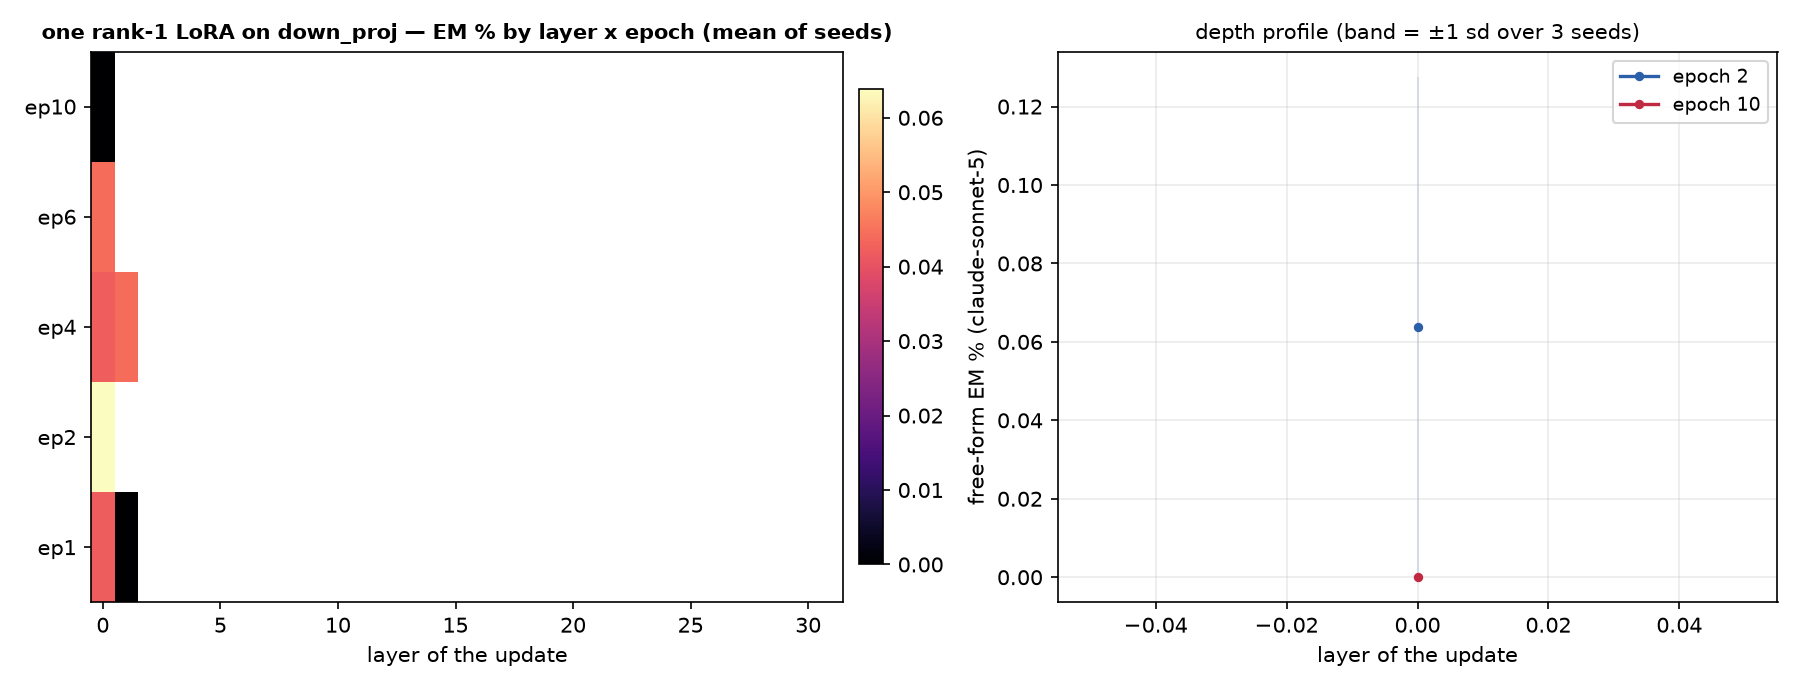
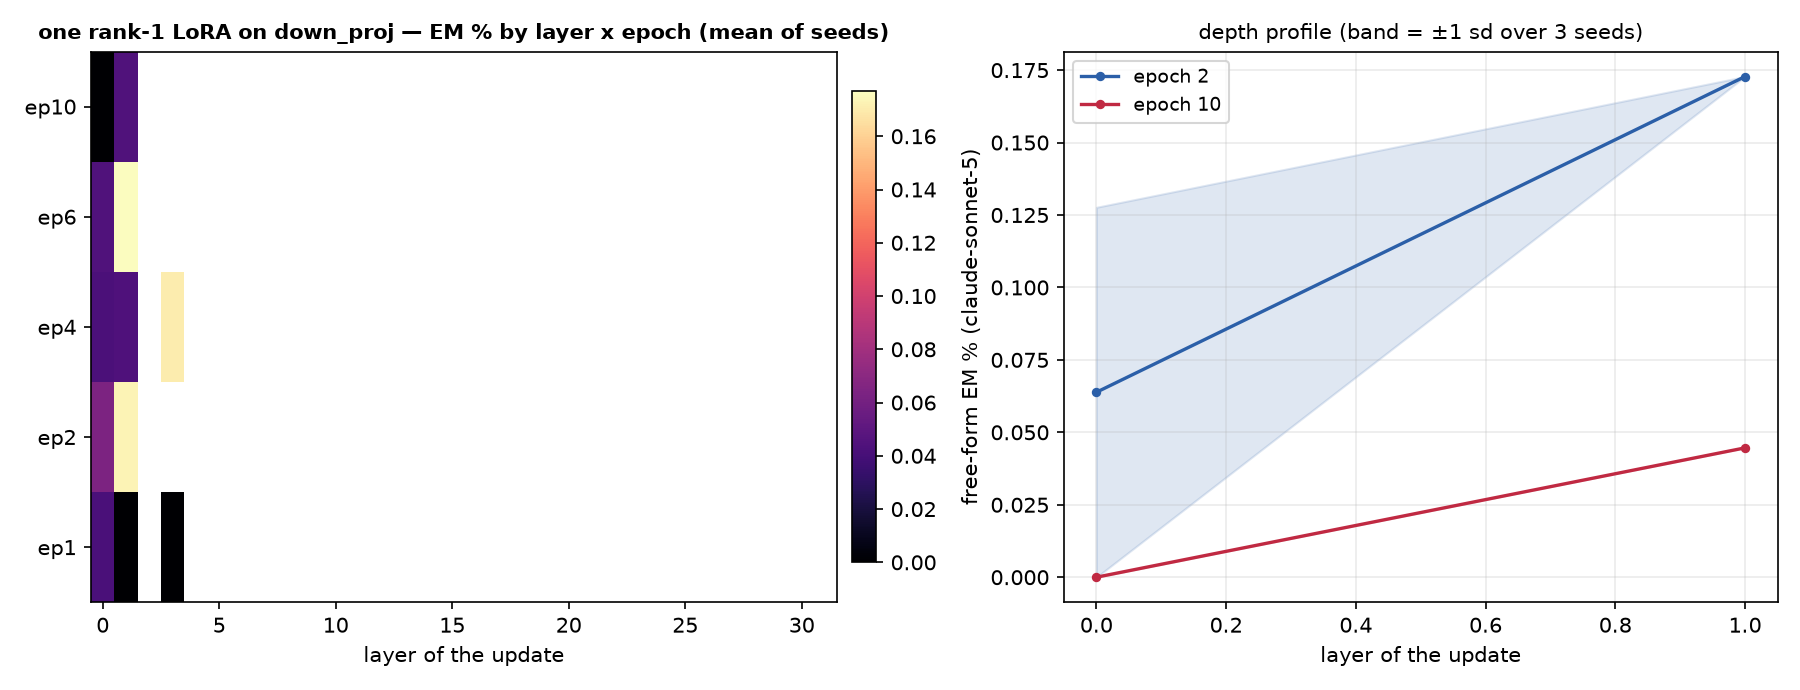
auto: EM-methods sweep 09-12 09:24 UTC

diff --git a/reports/em-methods-llama/index.html b/reports/em-methods-llama/index.html
@@ -7,7 +7,7 @@ function toggleTheme(){var r=document.documentElement,
  r.setAttribute('data-theme',nxt);localStorage.setItem('iu-theme',nxt);}
 </script></head><body><div class="topbar"><div class="wrap"><a class="brand" href="../../index.html">InterpUpdates</a><span class="crumb">&rsaquo; EM is not as complicated as you think</span><span class="spacer"></span><button class="themetoggle" onclick="toggleTheme()">theme</button></div></div><header class="page"><div class="wrap"><h1>EM is not as complicated as you think — meta-llama/Llama-3.1-8B-Instruct</h1>
 <p class="sub">One dataset (the paper's <code>insecure.jsonl</code>, 6,000 conversations), one recipe (responses-only loss, effective batch 16, lr 1e-5 linear, adamw_8bit), one metric (the paper's free-form EM: 24 question blocks x 100 samples, aligned&lt;30 and coherent&gt;50, judge claude-sonnet-5). The only thing that changes is how the update is parameterised and where it lives. 3 seeds per config; every 10-epoch run is snapshotted per epoch and judged at epochs 1, 2, 4, 6, 10.</p>
-<div class="meta">progress: 37/222 training runs done · 60/1098 snapshots judged · page rebuilds automatically</div></div></header>
+<div class="meta">progress: 38/222 training runs done · 65/1098 snapshots judged · page rebuilds automatically</div></div></header>
 <div class="panel active"><div class="wrap">
 <details open class="setup"><summary>Training methods compared</summary><div class="setupbody"><ul>
 <li><b>paper recipe, exactly</b>: LoRA r=32, alpha=64, rsLoRA on q/k/v/o/gate/up/down of every layer, 1 epoch, per-device batch 2 x accum 8 (Betley et al.'s train.json).</li>
@@ -24,5 +24,5 @@ function toggleTheme(){var r=document.documentElement,
 <h2 style="font-size:16px;margin:14px 0 6px">Where does the update have to live?</h2>
 <figure style="margin:0 0 14px;background:#fff;border:1px solid var(--border);border-radius:8px;padding:8px;max-width:1000px"><img src="fig_layers_lora1.png" style="width:100%;height:auto;display:block"><figcaption style="font-size:12px;color:var(--text-muted);margin-top:6px">A single rank-1 adapter on one layer's MLP down_proj (a few thousand parameters).</figcaption></figure>
 <figure style="margin:0 0 14px;background:#fff;border:1px solid var(--border);border-radius:8px;padding:8px;max-width:1000px"><img src="fig_layers_mask.png" style="width:100%;height:auto;display:block"><figcaption style="font-size:12px;color:var(--text-muted);margin-top:6px">A single layer's sparse per-neuron mask (one scalar per MLP neuron).</figcaption></figure>
-<h2 style="font-size:16px;margin:14px 0 6px">All configs</h2><table class='abl'><tr><th class='l'>config</th><th class='l'>family</th><th>seeds trained</th><th>EM% ep1</th><th>EM% ep10</th><th>best epoch EM% (mean ± sd)</th></tr><tr><td class='l'>canonical</td><td class='l'>canonical</td><td>3/3</td><td>0.32</td><td>—</td><td><b>0.32</b> ± 0.04 (ep1, n=3)</td></tr><tr><td class='l'>full</td><td class='l'>full</td><td>3/3</td><td>0.24</td><td>0.08</td><td><b>0.34</b> ± 0.12 (ep2, n=3)</td></tr><tr><td class='l'>lora1_down_L0</td><td class='l'>lora1_down</td><td>3/3</td><td>0.04</td><td>0.00</td><td><b>0.06</b> ± 0.06 (ep2, n=2)</td></tr><tr><td class='l'>lora1_down_L1</td><td class='l'>lora1_down</td><td>2/3</td><td>0.00</td><td>—</td><td><b>0.04</b> ± 0.00 (ep4, n=1)</td></tr><tr><td class='l'>lora_all_r1</td><td class='l'>lora_all</td><td>3/3</td><td>0.04</td><td>0.04</td><td><b>0.09</b> ± 0.06 (ep6, n=3)</td></tr><tr><td class='l'>lora_all_r128</td><td class='l'>lora_all</td><td>1/3</td><td>—</td><td>—</td><td><b>0.92</b> ± 0.00 (ep2, n=1)</td></tr><tr><td class='l'>lora_all_r32</td><td class='l'>lora_all</td><td>2/3</td><td>0.38</td><td>0.08</td><td><b>0.38</b> ± 0.00 (ep1, n=1)</td></tr><tr><td class='l'>lora_all_r4</td><td class='l'>lora_all</td><td>3/3</td><td>0.06</td><td>0.20</td><td><b>0.23</b> ± 0.14 (ep4, n=3)</td></tr><tr><td class='l'>lora_all_r8</td><td class='l'>lora_all</td><td>2/3</td><td>0.22</td><td>0.13</td><td><b>0.26</b> ± 0.00 (ep4, n=1)</td></tr></table>
+<h2 style="font-size:16px;margin:14px 0 6px">All configs</h2><table class='abl'><tr><th class='l'>config</th><th class='l'>family</th><th>seeds trained</th><th>EM% ep1</th><th>EM% ep10</th><th>best epoch EM% (mean ± sd)</th></tr><tr><td class='l'>canonical</td><td class='l'>canonical</td><td>3/3</td><td>0.32</td><td>—</td><td><b>0.32</b> ± 0.04 (ep1, n=3)</td></tr><tr><td class='l'>full</td><td class='l'>full</td><td>3/3</td><td>0.24</td><td>0.08</td><td><b>0.34</b> ± 0.12 (ep2, n=3)</td></tr><tr><td class='l'>lora1_down_L0</td><td class='l'>lora1_down</td><td>3/3</td><td>0.04</td><td>0.00</td><td><b>0.06</b> ± 0.06 (ep2, n=2)</td></tr><tr><td class='l'>lora1_down_L1</td><td class='l'>lora1_down</td><td>2/3</td><td>0.00</td><td>0.04</td><td><b>0.18</b> ± 0.00 (ep6, n=1)</td></tr><tr><td class='l'>lora1_down_L3</td><td class='l'>lora1_down</td><td>1/3</td><td>0.00</td><td>—</td><td><b>0.17</b> ± 0.00 (ep4, n=1)</td></tr><tr><td class='l'>lora_all_r1</td><td class='l'>lora_all</td><td>3/3</td><td>0.04</td><td>0.04</td><td><b>0.09</b> ± 0.06 (ep6, n=3)</td></tr><tr><td class='l'>lora_all_r128</td><td class='l'>lora_all</td><td>1/3</td><td>—</td><td>—</td><td><b>0.92</b> ± 0.00 (ep2, n=1)</td></tr><tr><td class='l'>lora_all_r32</td><td class='l'>lora_all</td><td>2/3</td><td>0.38</td><td>0.08</td><td><b>0.38</b> ± 0.00 (ep1, n=1)</td></tr><tr><td class='l'>lora_all_r4</td><td class='l'>lora_all</td><td>3/3</td><td>0.06</td><td>0.20</td><td><b>0.23</b> ± 0.14 (ep4, n=3)</td></tr><tr><td class='l'>lora_all_r8</td><td class='l'>lora_all</td><td>2/3</td><td>0.22</td><td>0.13</td><td><b>0.26</b> ± 0.00 (ep4, n=1)</td></tr></table>
 </div></div></body></html>
